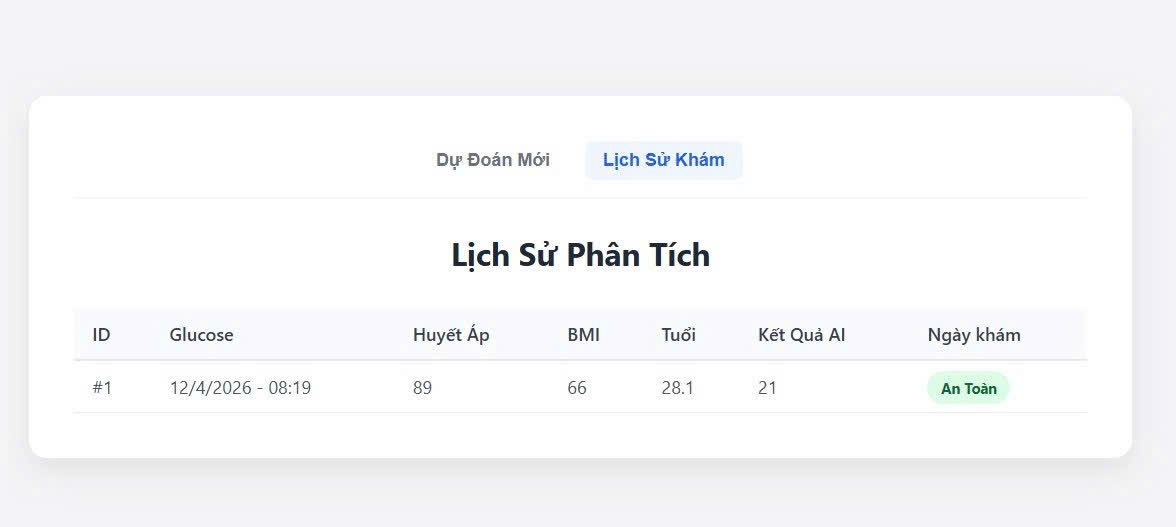
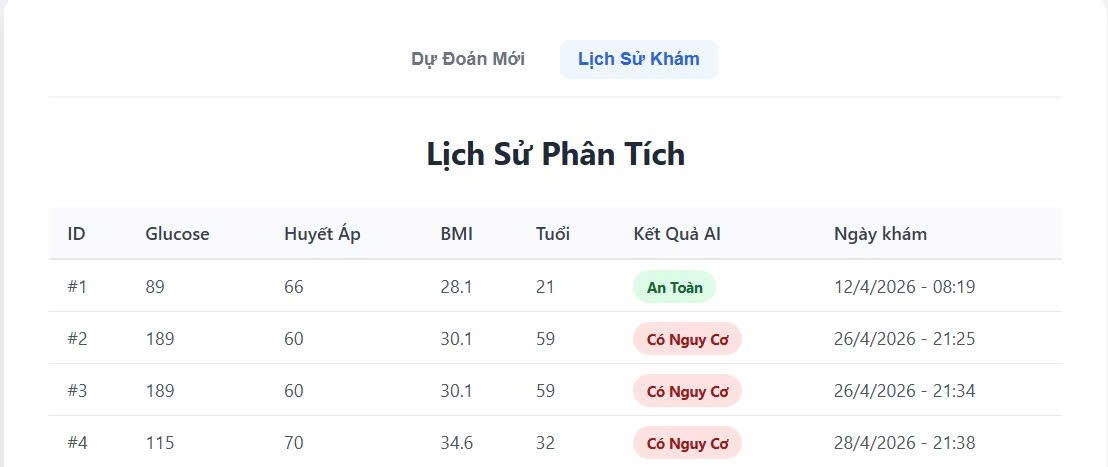
update

diff --git a/README.md b/README.md
@@ -36,15 +36,15 @@
 - Tracking: wandb
 ## 3. Cài đặt và chạy
 #### Yêu cầu
-<br>Python 3.11.9
+Python 3.11.9
 <br>Node.js: v24.14.1
 #### Chạy Notebook 
 project_analysis.ipynb 
 #### Chạy Backend 
-<br>cd backend
+cd backend
 <br>uvicorn main:app --reload
 #### Chạy Frontend 
-<br>frontend
+cd frontend
 <br>npm start
 #### Truy cập
 - Frontend: http://localhost:3000
@@ -52,11 +52,10 @@ project_analysis.ipynb
 ## 4. Demo
 - wandb: https://wandb.ai/yen-h/Diabetes_Prediction?nw=nwuservhy
 - Screenshot:
-<img src="screenshots/input_form.jpg" width="300" alt="Giao diện dự đoán">
-<img src="screenshots/history_logs.jpg" width="300" alt="Lịch sử khám">
+<img src="screenshots/input_form.jpg" width="300" alt="Giao diện dự đoán"> | <img src="screenshots/history_logs.jpg" width="300" alt="Lịch sử khám">
 
 - **Video**:
-[Xem video tại đây](https://drive.google.com/file/d/1XGriCYItsASSgDSFWPC1xK6ot6HgWiSd/view?usp=drive_link)
+[Xem video tại đây](https://drive.google.com/file/d/1S24a_8PzN-YEqCeX6reBpOC1NhKQVPtP/view?usp=drive_link)
 ## 5. Nộp bài
 - Báo cáo: report/report.pdf 
 - wandb link: wandb_link.txt
